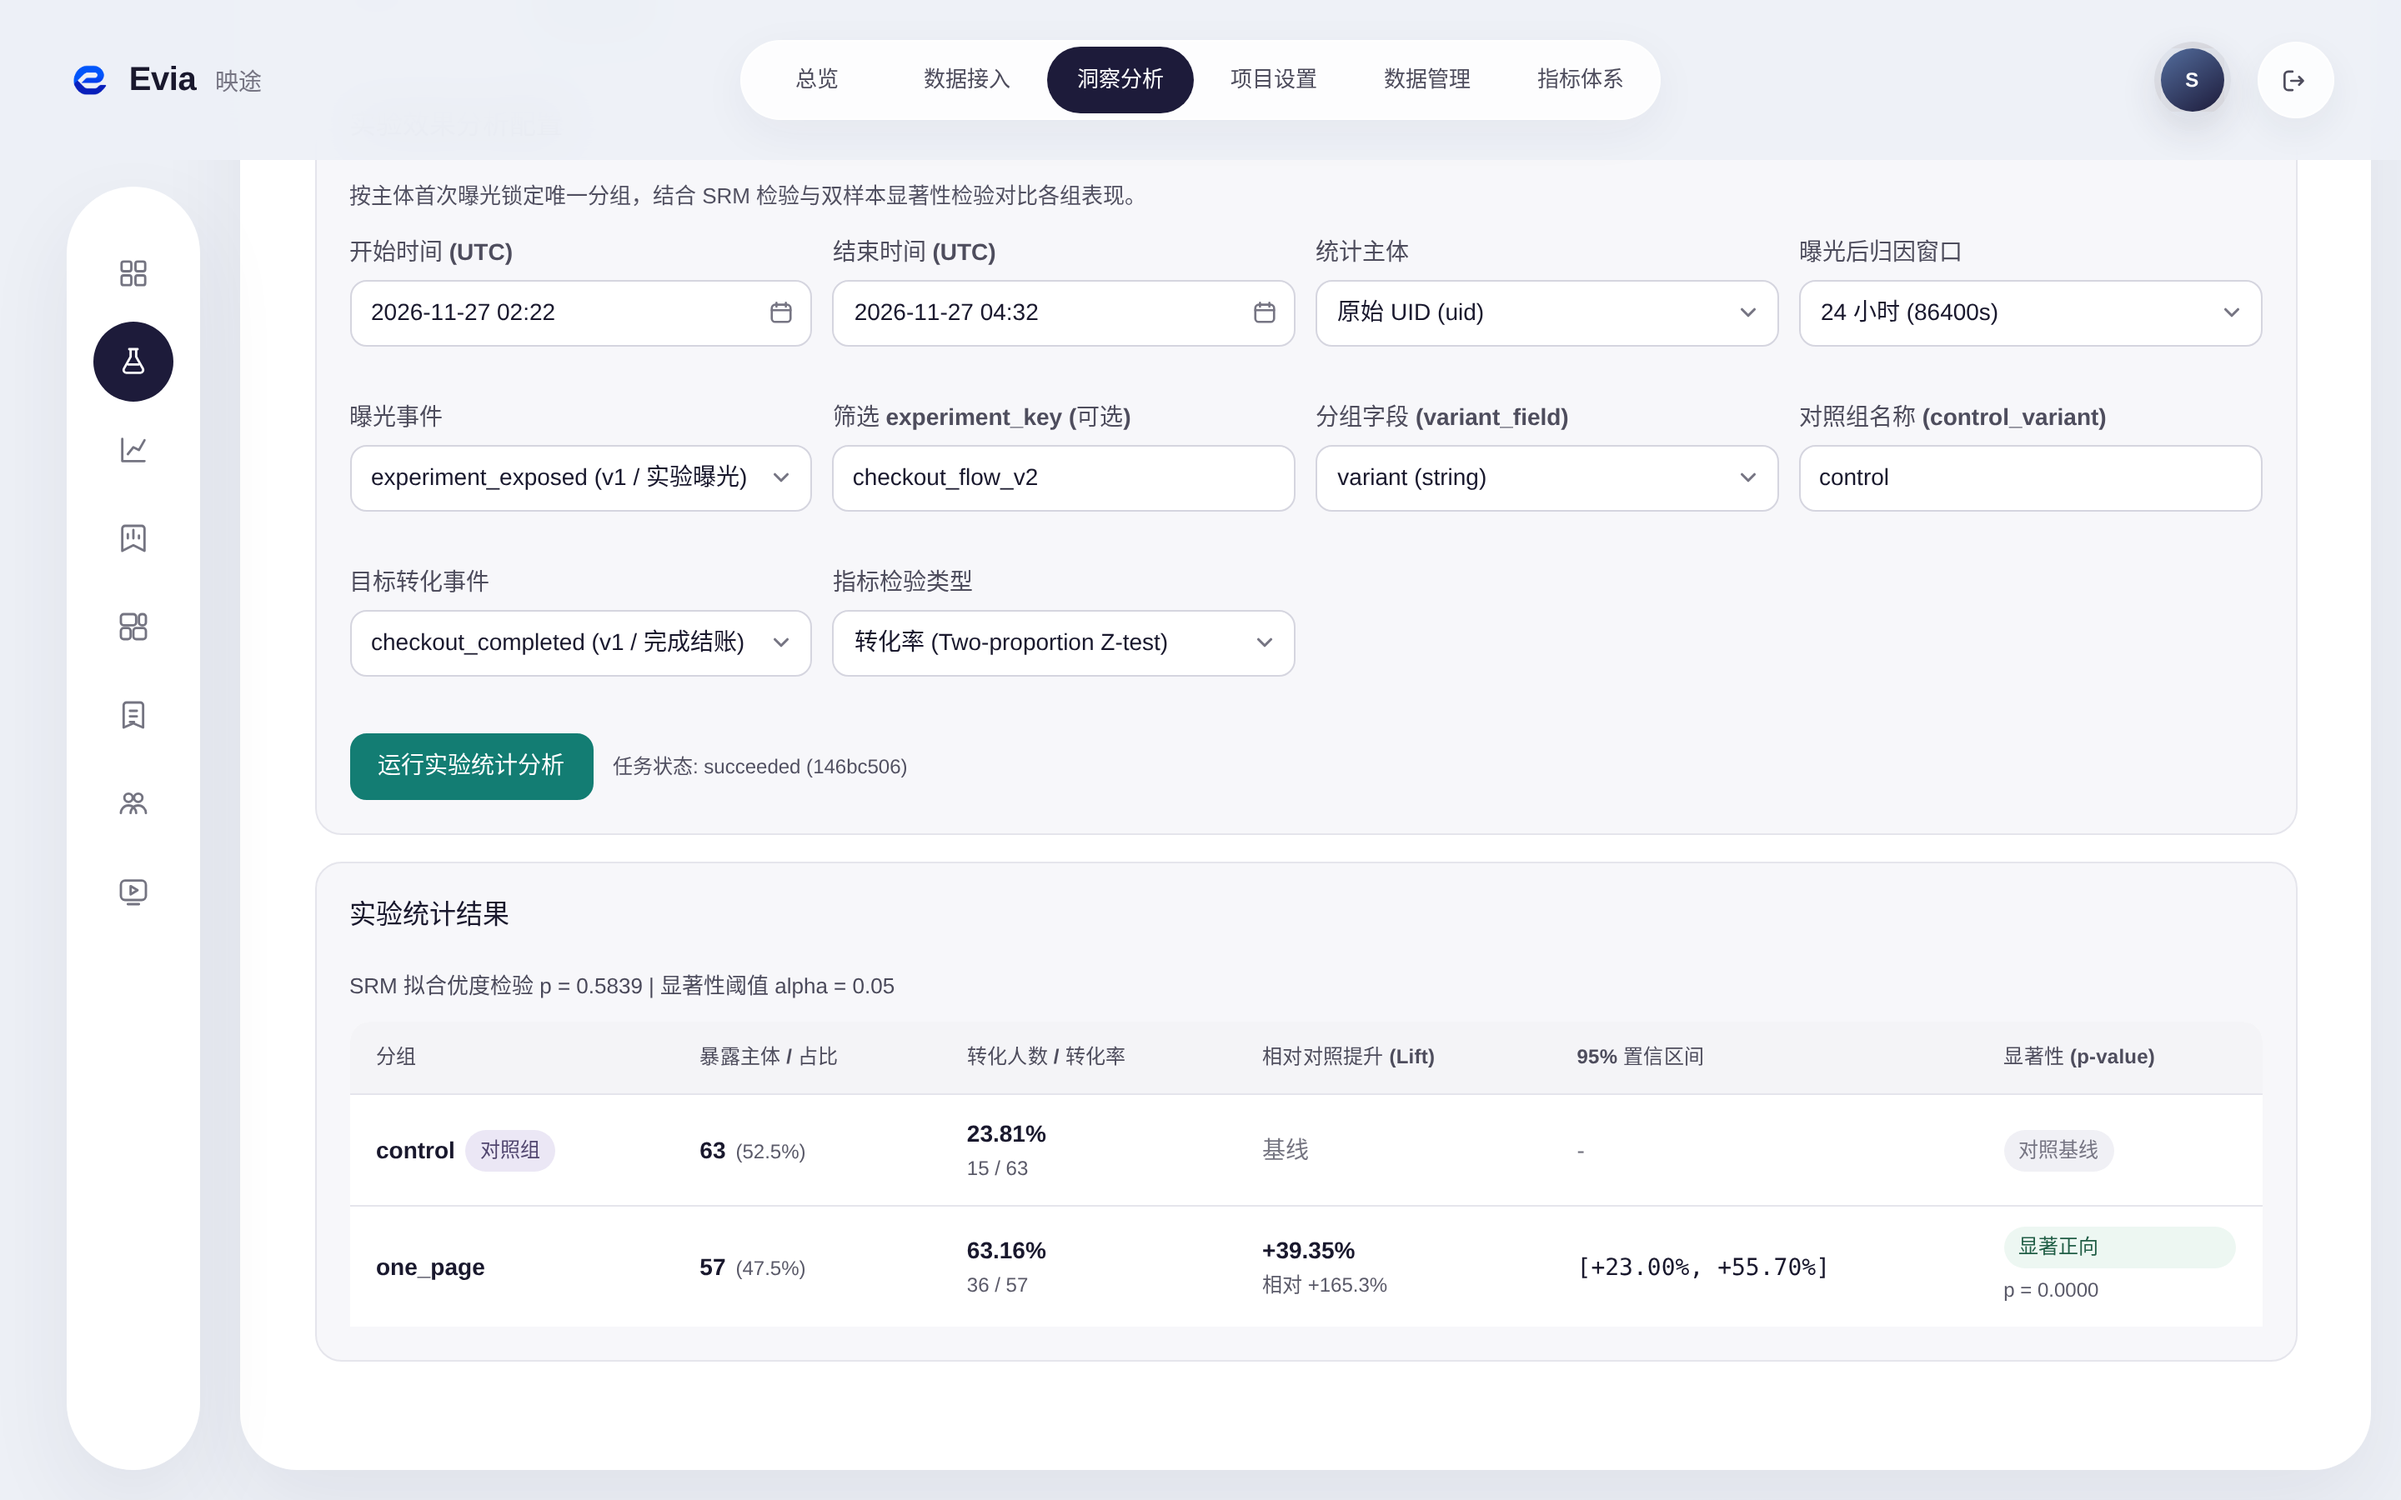
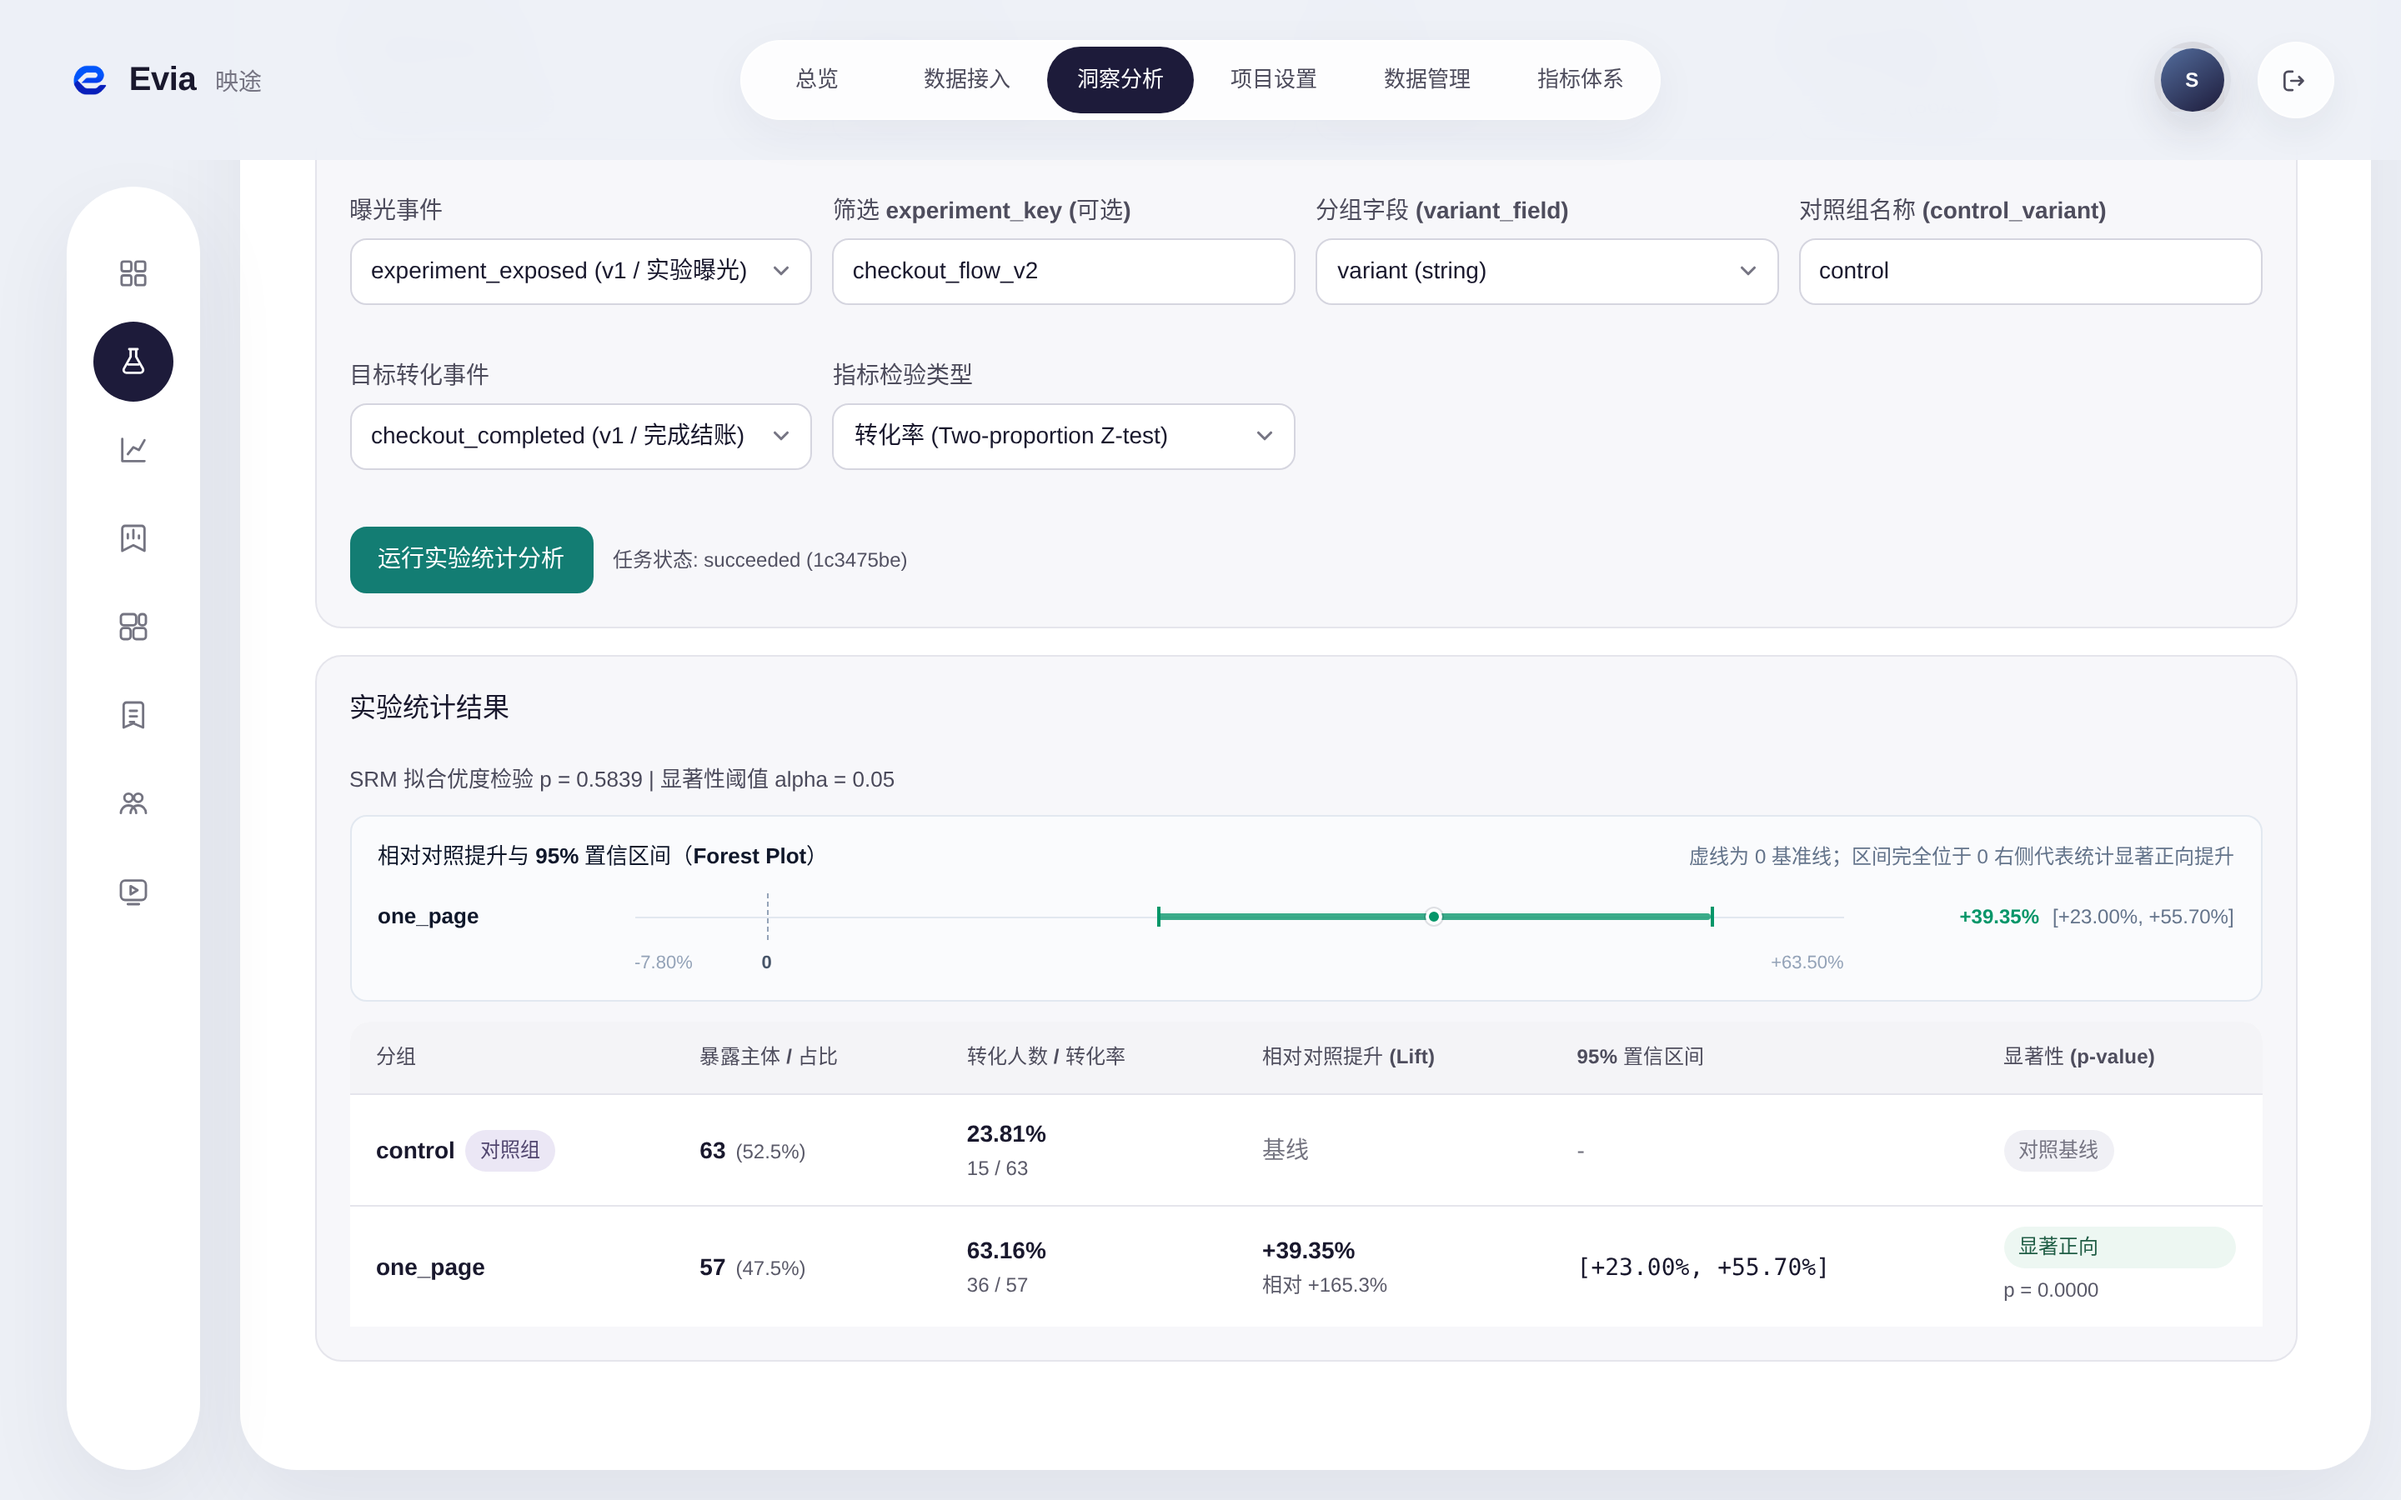
docs(assets): replace architecture diagram with pure-vector academic figure and add retention/forest-plot screenshots
Author docs/assets/event-data-architecture.svg in SOSP/OSDI/VLDB academic systems-paper style and render 2x Retina PNG (2800x1560), eliminating raster text artifacts and crossing arrows.

Add refreshed console captures for the retention cohort matrix and A/B experiment forest plot and synchronize README.md and docs/assets/README.md.

diff --git a/docs/assets/README.md b/docs/assets/README.md
@@ -1,10 +1,10 @@
 # README figures and console screenshots
 
-The conceptual architecture diagram below was regenerated and visually reviewed on 2026-11-27 (Asia/Shanghai) using Image 2.5 Pro (`jm_image_model_lib_s`) to align with the migration `054_experiments.sql` platform baseline (control and collection APIs, Redis budgets, Kafka/ClickHouse ingestion, query and governance workers, A/B experimentation, identity graph, session replay, and separately planned Apache Flink stateful stream processing). The earlier versioned-analysis figure is retained as a historical illustration and is no longer embedded in the README. All originals are committed locally so the README does not depend on an external image host.
+The conceptual architecture diagram (`event-data-architecture.svg` / `event-data-architecture.png`) is authored as pure vector SVG in an academic systems-paper style and rendered at 2x DPI (2800 × 1560 PNG) on 2026-11-27 (Asia/Shanghai) to align with the migration `054_experiments.sql` platform baseline (control and collection APIs under a unified Go runtime, Redis admission budgets, PostgreSQL/Kafka/ClickHouse, query and governance workers, A/B experimentation, identity graph, session replay, and separately planned Apache Flink stateful stream processing). The earlier versioned-analysis figure is retained as a historical illustration and is no longer embedded in the README. All originals are committed locally so the README does not depend on an external image host.
 
 | Figure | Meaning | Authoritative references |
 | --- | --- | --- |
[2 lines of base64/hex data omitted]
 | [Versioned analytics model](versioned-analytics-model.png) | Historical pre-dashboard snapshot of the event and saved-analysis lifecycle | [Releases](../releases.md), [saved analyses](../saved-analyses.md), [dashboard proposal](../plans/custom-dashboards.md) |
 
 ## Current console captures (2026-11-27)
@@ -16,7 +16,8 @@ Captured on 2026-11-27 (Asia/Shanghai) against the local full-stack production c
[6 lines of base64/hex data omitted]
 
 ## Semantics to preserve
 

diff --git a/README.md b/README.md
@@ -38,9 +38,9 @@
 
 ## 系统架构
 
-![Evia 映途系统逻辑架构：左侧接入与控制端经 Go 统一运行时（管理 API / 采集与配置 API + Redis 配额）对接 PostgreSQL、Apache Kafka、ClickHouse 及各后台治理工作进程；底部虚线框标示独立规划的 Apache Flink 有状态实时流计算模块。](docs/assets/event-data-architecture.png)
+![Evia Logical System Architecture: (a) Control & Query Plane, (b) Event Ingestion Data Plane, and (c) Governance & Lifecycle Workers / Planned Extension (Apache Flink).](docs/assets/event-data-architecture.png)
 
-> 管理 API 与采集 API 运行在同一 Go 二进制的职责边界内，可按业务负载水平扩展；各后台 Worker 按子命令独立拉起。实线表示已实现模块，虚线表示独立规划模块（Apache Flink 有状态流计算）。完整逻辑链路与设计边界见 [架构说明](docs/architecture.md) 与 [功能覆盖清单](docs/feature-coverage.md)。
+> 管理 API 与采集 API 运行在同一 Go 运行时（`evia serve`）的职责边界内，可按业务负载水平扩展；各后台 Worker 按子命令独立拉起。实线表示已实现模块，虚线表示独立规划模块（Apache Flink 有状态流计算）；矢量源文件见 [event-data-architecture.svg](docs/assets/event-data-architecture.svg)。完整设计边界见 [架构说明](docs/architecture.md) 与 [功能覆盖清单](docs/feature-coverage.md)。
 
 ---
 
@@ -52,9 +52,13 @@
 | --- | --- |
 | ![Evia 映途产品落地页](docs/assets/landing-desktop.jpg) | ![项目总览工作区：近 7 天事件趋势、会话/UID 指标卡与热门事件](docs/assets/overview-desktop.png) |
 
-| 多维洞察分析（3 步有序漏斗） | A/B 实验统计评估（SRM 与双比例 Z 检验） |
+| 有序漏斗分析（原生漏斗图与转化率明细） | 留存队列分析（色阶热力矩阵） |
 | --- | --- |
-| ![洞察分析工作区：3 步有序漏斗图与转化明细表](docs/assets/analysis-desktop.png) | ![A/B 实验工作区：SRM 拟合优度检验、对照提升与 95% 置信区间](docs/assets/experiments-desktop.png) |
+| ![洞察分析工作区：3 步原生漏斗图与步间转化明细表](docs/assets/analysis-desktop.png) | ![留存分析工作区：按天队列留存热力矩阵](docs/assets/retention-desktop.png) |
+
+| A/B 实验统计评估（SRM、95% CI 森林图与双比例 Z 检验） |
+| --- |
+| ![A/B 实验工作区：SRM 拟合优度检验、Forest Plot 森林图、对照提升与 95% 置信区间](docs/assets/experiments-desktop.png) |
 
 更多历史验证截图与图表维护说明见 [docs/assets/README.md](docs/assets/README.md)。
 
